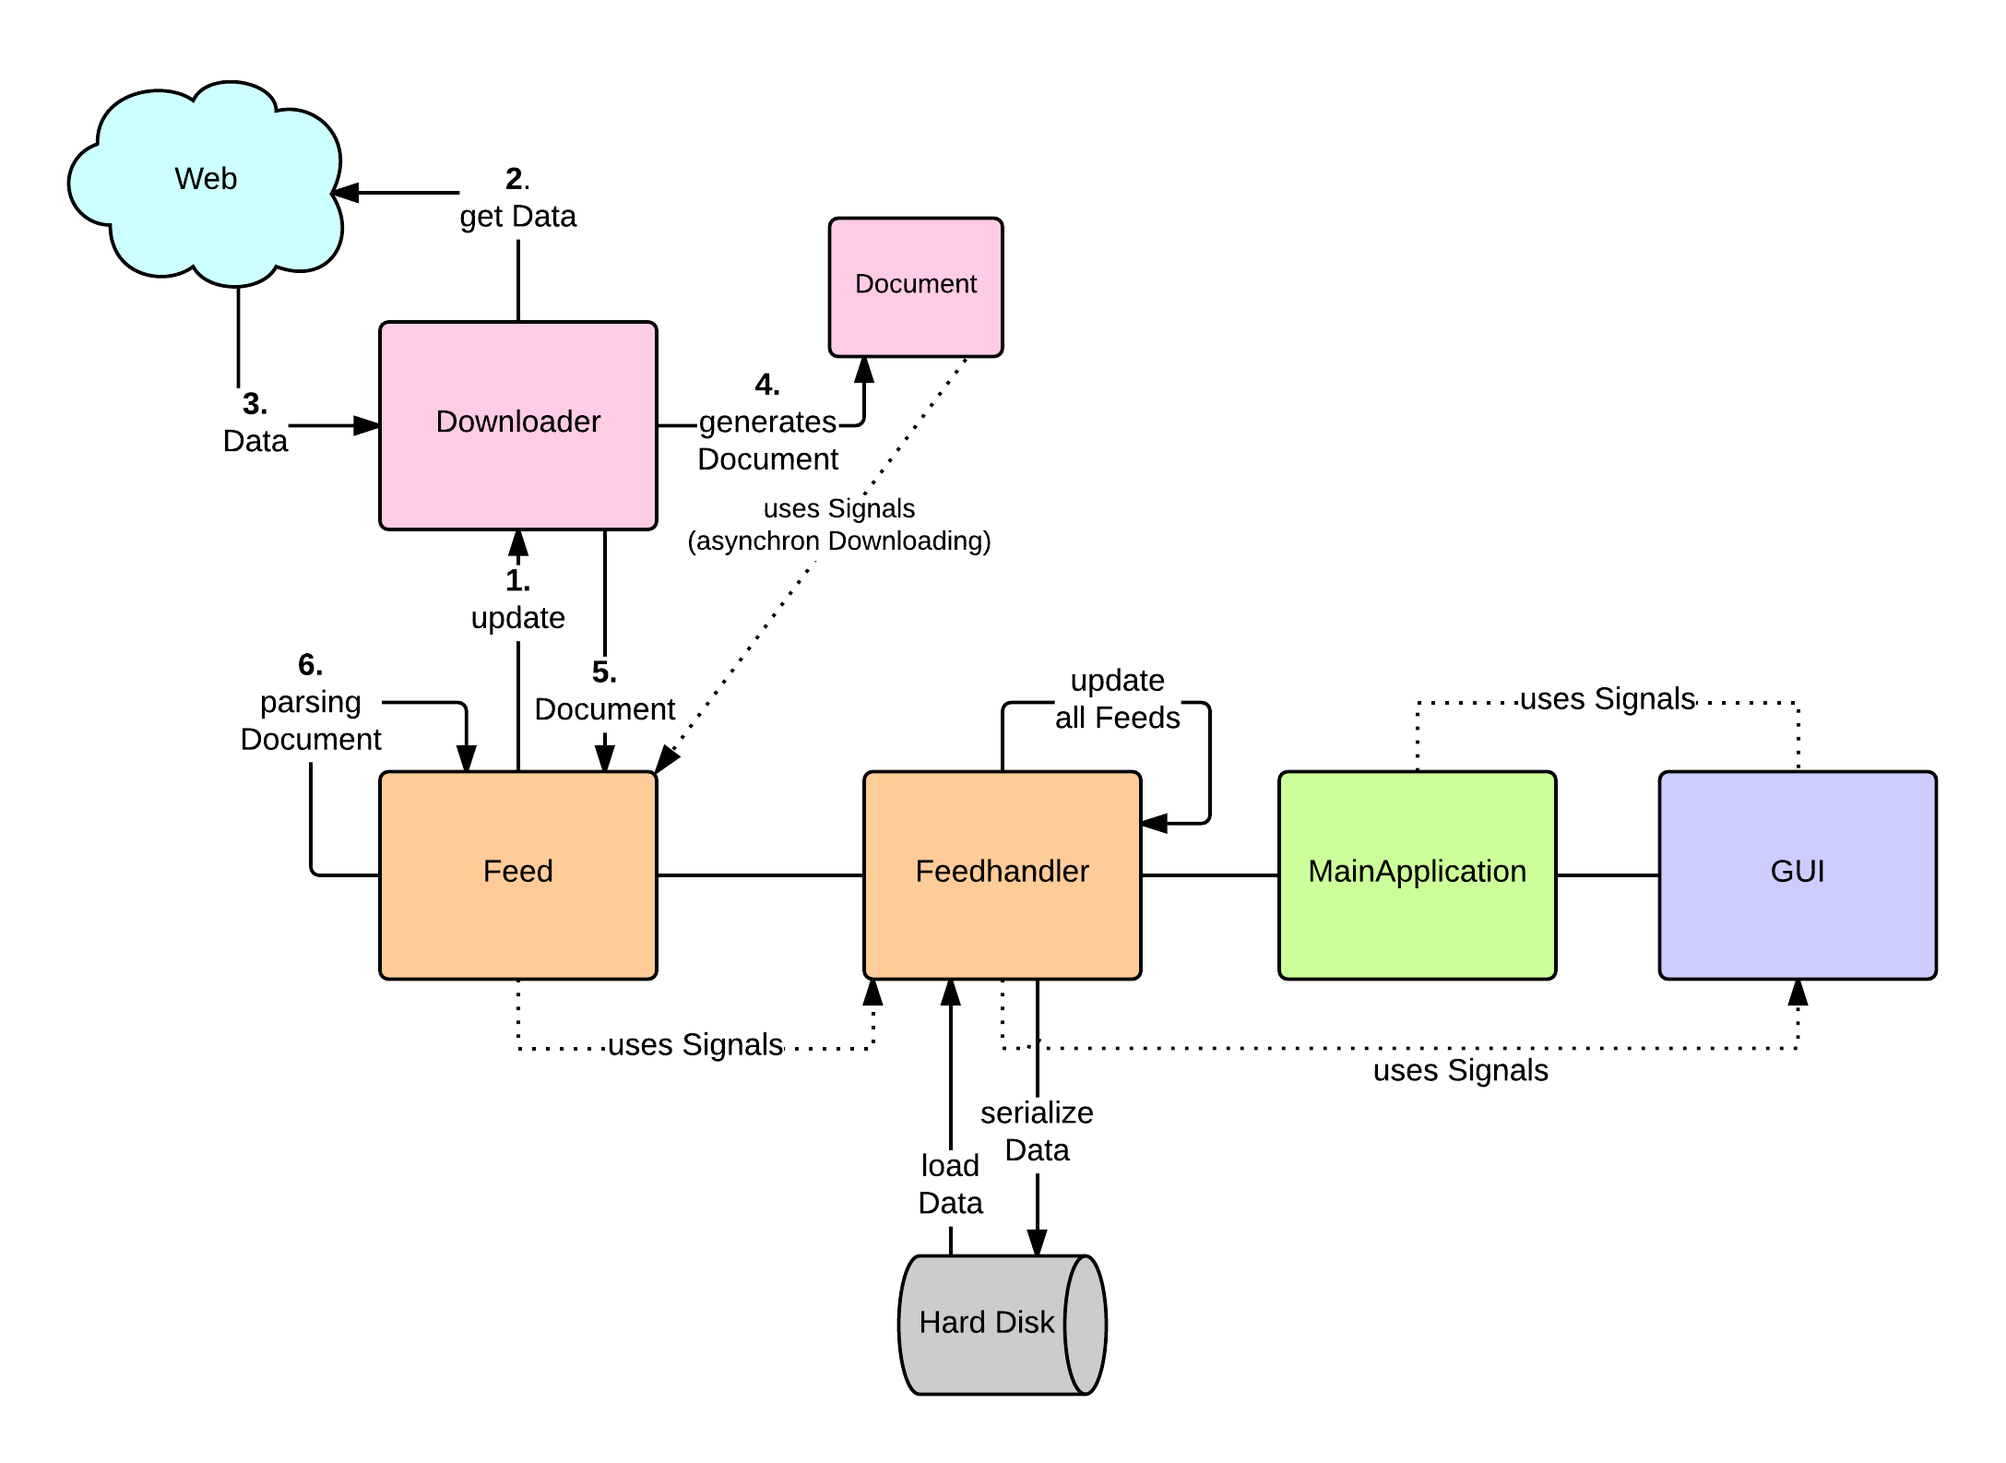
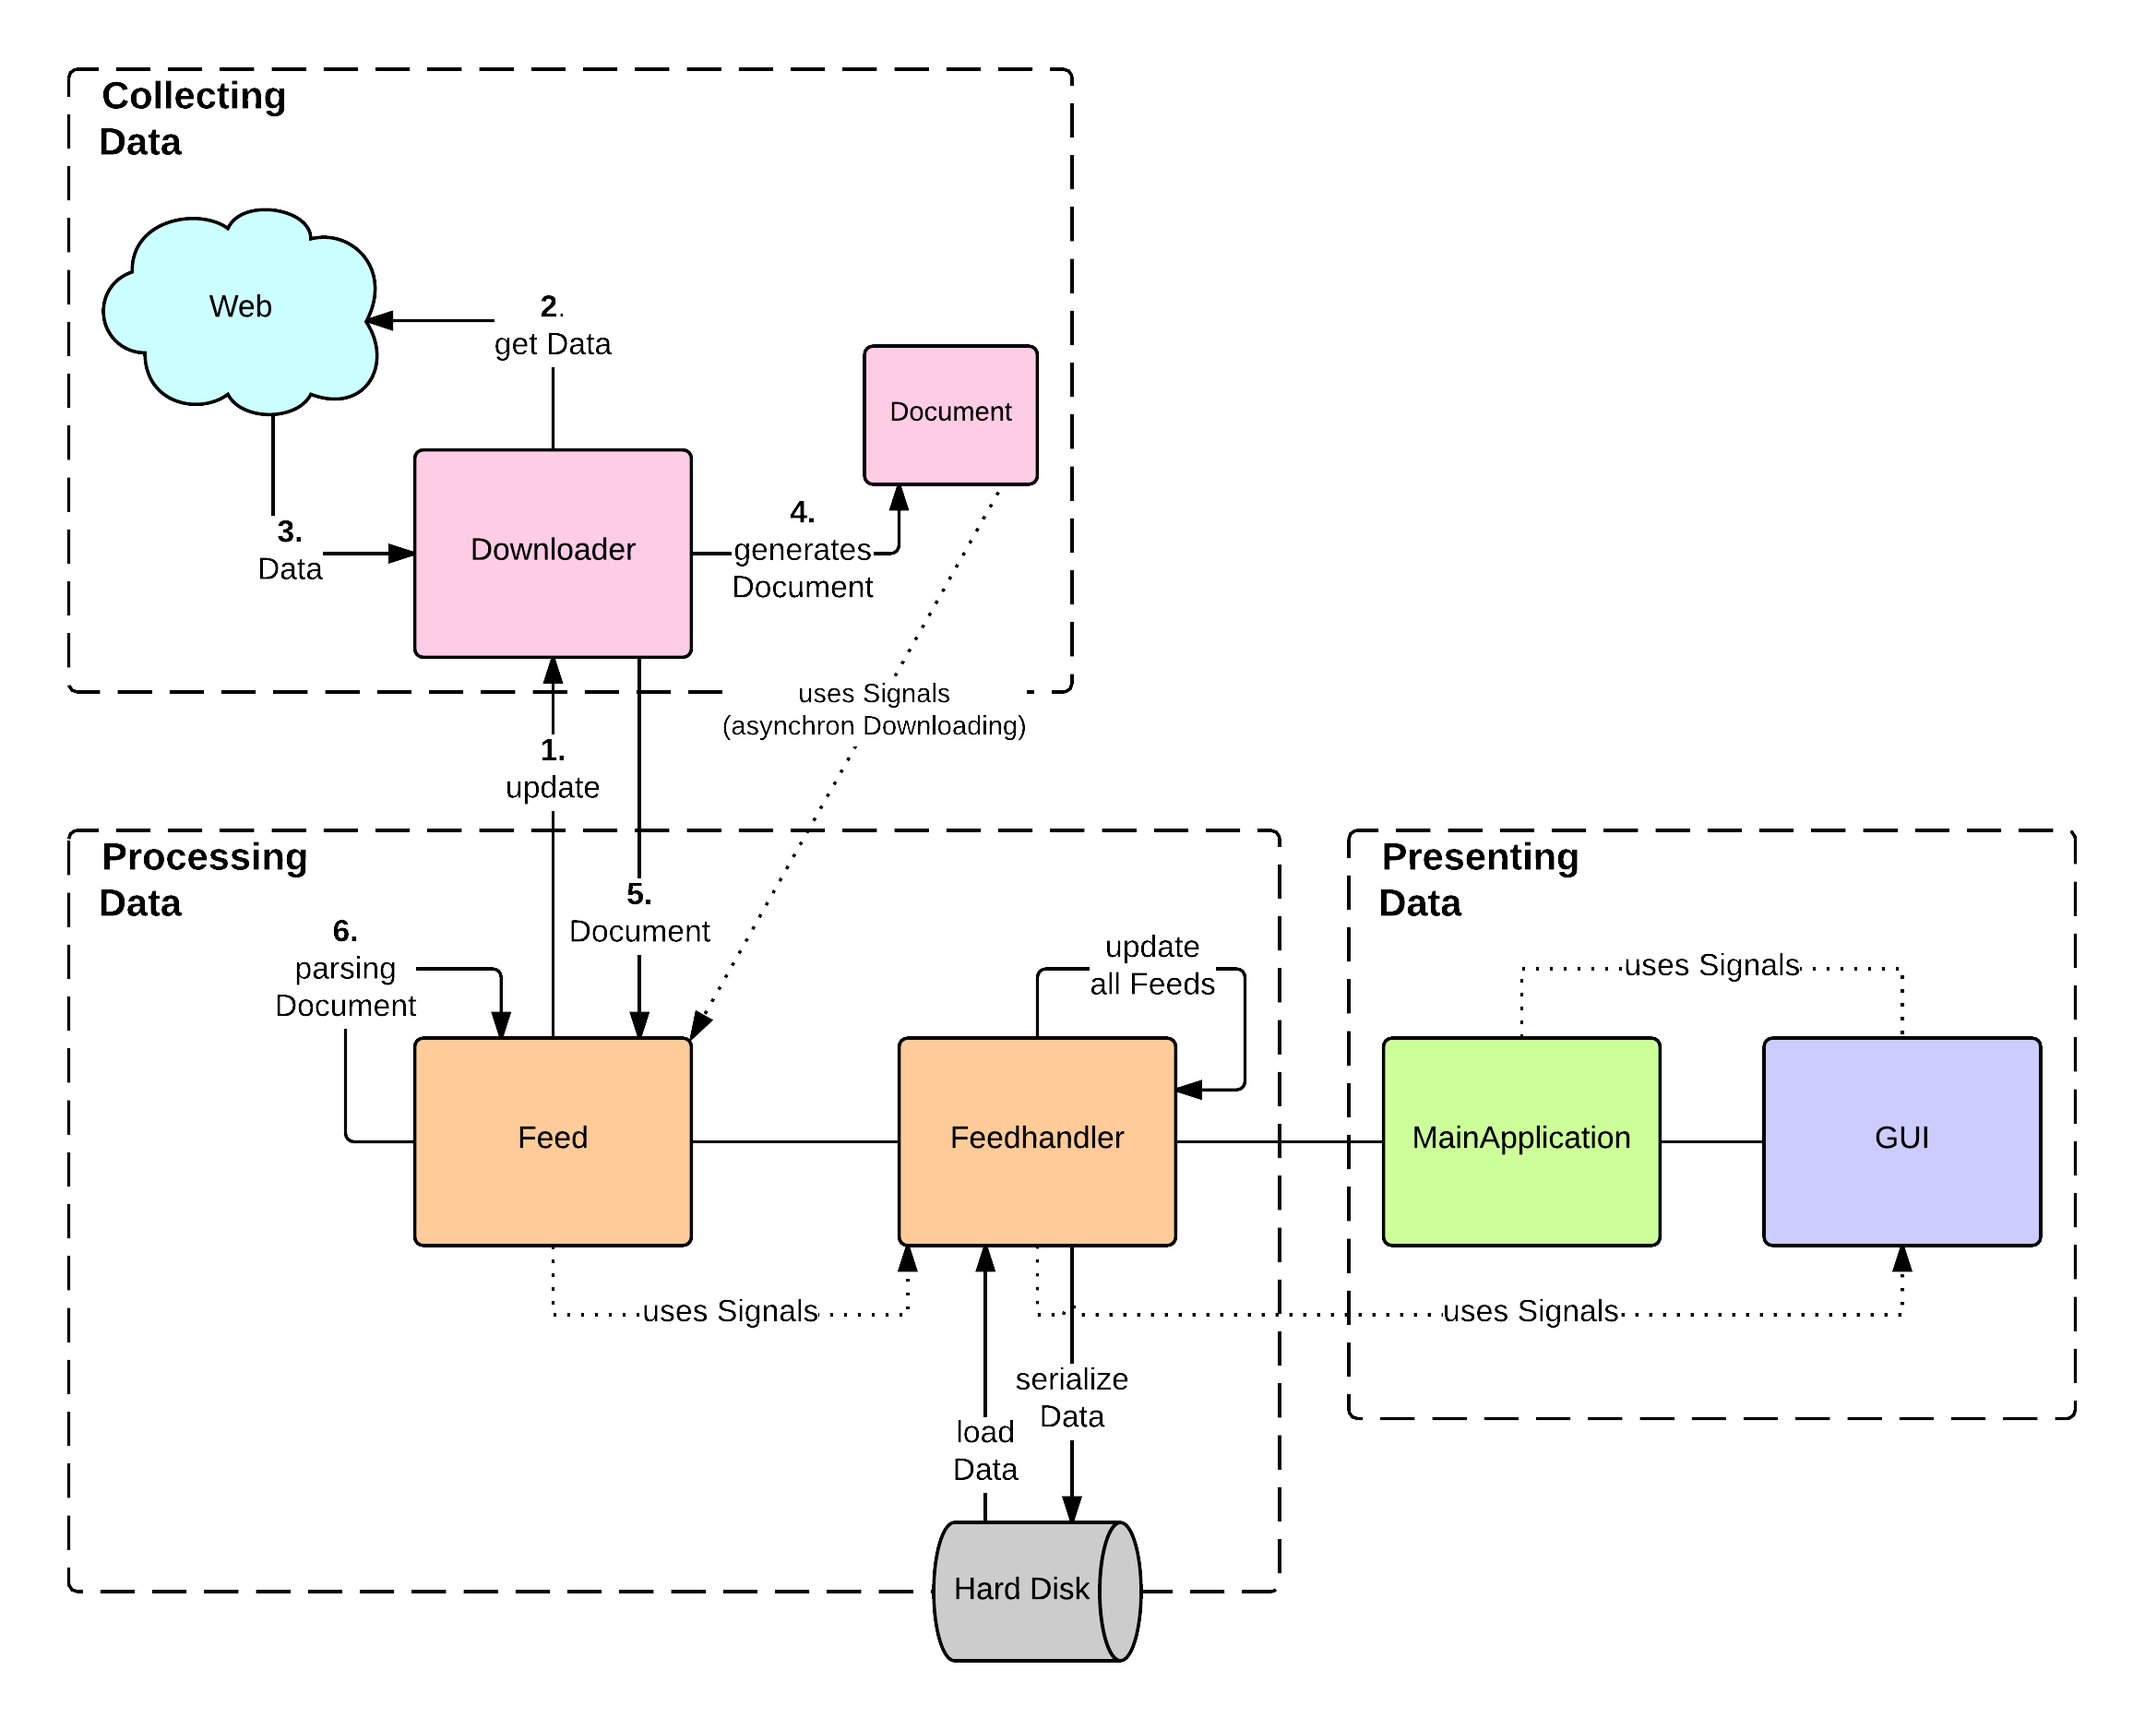
chapter II and III modified

diff --git a/rst/II/index.rst b/rst/II/index.rst
@@ -82,8 +82,8 @@ Grundkonzept von *gylfeed*
 ==========================
 
 In Abbildung :num:`funktionsprinzip` ist das Funktionsprinzip von *gylfeed*
-dargestellt. Anhand dieser Darstellung soll ein Grundverständnis für den 
-Aufbau und die Abläufe innerhalb des Feedreaders geschaffen werden.
+dargestellt. Anhand dieser Darstellung soll der 
+Aufbau und die Abläufe innerhalb des Feedreaders erläutert werden.
 
 .. _funktionsprinzip:
 
@@ -94,9 +94,15 @@ Aufbau und die Abläufe innerhalb des Feedreaders geschaffen werden.
     
     Funktionsprinzip von *gylfeed*.
 
+Das Konzept ist in die Bereiche Beschaffung der Daten (Collecting Data),
+Verarbeitung der Daten (Processing Data) und Darstellung der Daten (Presenting
+Data) aufgeteilt. Die Bachelorarbeit wird in den folgenden Kapiteln auf
+Einzelheiten dieser Bereiche eingehen.
 
-Die Nummerierungen der Aktionen dienen zur Orientierung und werden an dieser
-Stelle verwendet, um mit der Beschreibung des Diagramms zu beginnen.
+
+An dieser Stelle soll der Grobablauf des Feedreaders erläutert werden.
+Die Nummerierungen der Aktionen dienen zur Orientierung und werden dazu
+verwendet, um mit der Beschreibung des Diagramms zu beginnen.
 
 Es wird angenommen, im Objekt Feed wird gefordert ein Update durchzuführen (1).
 Dieser Auftrag wird an den Downloader weitergegeben. Dieser lädt die angefragten
@@ -104,8 +110,7 @@ Daten über das Web herunter (2). An dieser Stelle ist anzumerken, dass hier nic
 immer die kompletten Daten des Feeds heruntergeladen werden. Lässt es
 die Struktur des betreffenden Feeds zu, wird nur dann ein kompletter Download
 der Daten des Feeds durchgeführt, wenn sich dieser tatsächlich geändert hat.
-Hier gibt es verschiedene Möglichkeiten festzustellen, ob eine Änderung vorliegt,
-dies wird innerhalb des Kapitels XX!!!!! näher betrachtet.
+Näheres hierzu wird in Kapitel XX betrachtet.
 
 
 Im nächsten Schritt empfängt der Downloader die Daten aus dem Web (3). 

diff --git a/rst/III/index.rst b/rst/III/index.rst
@@ -2,13 +2,24 @@
 Kommunikation über Signale
 **************************
 
-Signale werden innerhalb von *gylfeed* verwendet, um ...
-An dieser Stelle sollen die Hintergründe und theoretischen Grundlagen zu
-Signalen näher betrachtet werden.
+Signale werden innerhalb von *gylfeed* einerseits verwendet, um Interaktionen vom Benutzer
+zu erkennen und weiterzuleiten. Andererseits werden Signale für interne Abläufe
+verwendet. An dieser Stelle sollen die Hintergründe und theoretischen Grundlagen zu
+Signalen näher betrachtet und die Anwendung innerhalb von *gylfeed* erläutert
+werden.
 
 
-Hintergründe zu Signalen
-========================
+GTK+ im Überblick
+=================
+
+GTK+, das GIMP Toolkit bietet die Grundlage für die Verwendung von Signalen.
+GTK+
+wurde ursprünglich für das GNU Image Manipulation Programm (GIMP) entwickelt
+(vgl. :cite:`gimp` -- offizielle Webseite von GIMP).
+Dieser Ursprung blieb im Namen von GTK+ enthalten. Zwischenzeitlich wurde die
+dritte Version von GTK+ entwickelt. GTK+ ist plattformübergreifend und unter der 
+LGPL (GNU Lesser General Public License) lizenziert (vgl. :cite:`lgpl`).
+
 
 Als erstes sei erwähnt, dass GTK ereignisbasiert ist. GTK wartet solange, bis ein
 Ereignis ausgelöst wird, beispielsweise durch einen Klick auf einen Button. GTK gibt dieses Ereignis an das
